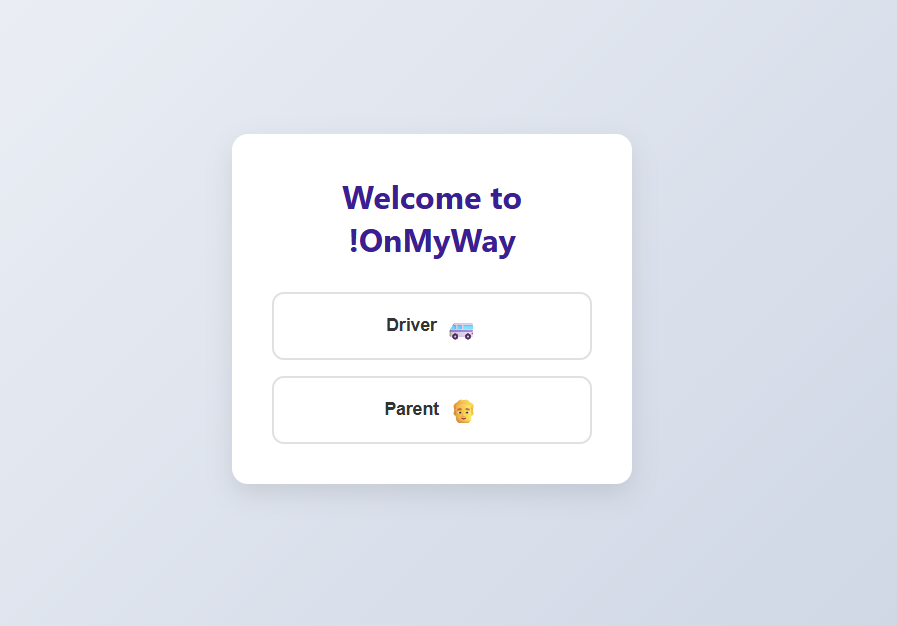
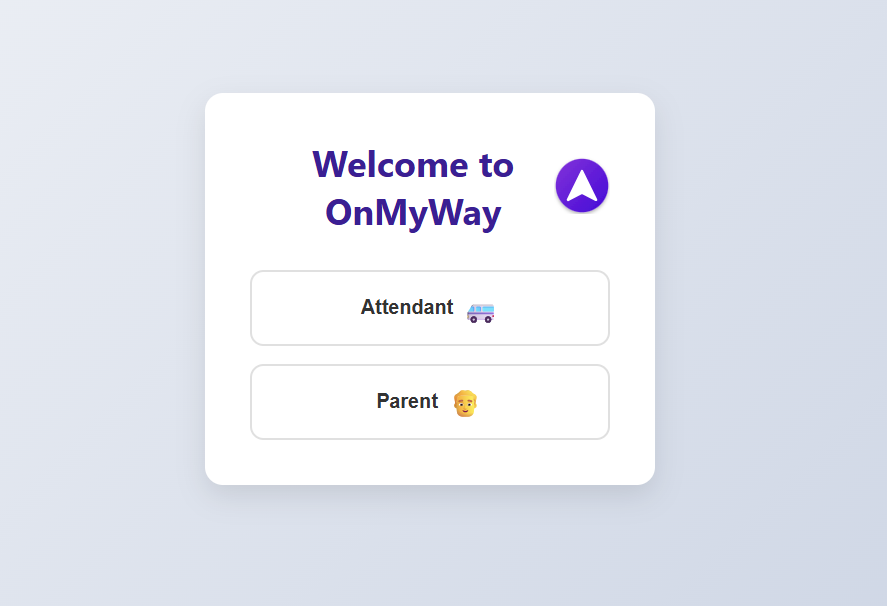
feat: stable map routing with OSRM using useRef, useMemo and instructions panel

Changed region(s): [[0.2131, 0.1485, 0.761, 0.802], [0.3044, 0.6238, 0.6697, 0.7426], [0.3044, 0.5644, 0.6697, 0.5941]]

diff --git a/Frontend/src/components/Map.jsx b/Frontend/src/components/Map.jsx
@@ -1,8 +1,62 @@
-import { useState, useEffect } from 'react'
-import { MapContainer, TileLayer, Marker, Popup } from 'react-leaflet'
+import { useState, useEffect, useRef, useMemo } from 'react'
+import { MapContainer, TileLayer, Marker, Popup, useMap } from 'react-leaflet'
+import 'leaflet-routing-machine'
 import L from 'leaflet'
 import 'leaflet/dist/leaflet.css'
 import './Map.css'
+
+
+function Routing({ points, onInstructions }) {
+    const map = useMap();
+    const routingRef = useRef(null);
+
+    useEffect(() => {
+        if (!map || points.length < 2) return;
+
+        if (routingRef.current) {
+            try {
+                map.removeControl(routingRef.current);
+            } catch (e) {
+                console.warn('Routing already removed');
+            }
+            routingRef.current = null;
+        }
+
+        const routingControl = L.Routing.control({
+            waypoints: points.map(p => L.latLng(p[0], p[1])),
+            router: L.Routing.osrmv1({
+                serviceUrl: 'https://router.project-osrm.org/route/v1'
+            }),
+            lineOptions: {
+                styles: [{ color: '#2563eb', weight: 5 }]
+            },
+            addWaypoints: false,
+            draggableWaypoints: false,
+            fitSelectedRoutes: false,
+            show: false,
+            createMarker: () => null
+        }).addTo(map);
+
+        routingControl.on('routesfound', (e) => {
+            const steps = e.routes[0]?.instructions || [];
+            onInstructions(steps);
+        });
+
+        routingRef.current = routingControl;
+
+        return () => {
+            if (routingRef.current) {
+                try {
+                    map.removeControl(routingRef.current);
+                } catch { }
+                routingRef.current = null;
+            }
+        };
+    }, [map, points]);
+
+    return null;
+}
+
 
 
 // Icons
@@ -42,6 +96,7 @@ export default function Map() {
     const [loading, setLoading] = useState(true)
     const [error, setError] = useState(null)
     const [checkedIds, setCheckedIds] = useState(new Set());
+    const [instructions, setInstructions] = useState([]);
 
 
     // Add User Form State
@@ -153,6 +208,21 @@ export default function Map() {
             return newSet;
         });
     };
+    // console.log('route raw:', route);
+
+
+    const routePoints = useMemo(() => {
+        if (route.length === 0) return [];
+
+        return [
+            position, // location of the bus
+            ...route
+                .filter(p => p.x && p.y)
+                .map(p => [p.x, p.y])
+        ];
+    }, [route]);
+
+    // console.log('routePoints:', routePoints);
     return (
         <div className="Map">
             <div className="PassengersList">
@@ -242,15 +312,27 @@ export default function Map() {
                         </Marker>
                     ) : null
                 ))}
+                {routePoints.length > 1 && (
+                    <Routing
+                        points={routePoints}
+                        onInstructions={setInstructions}
+                    />
+                )}
+
             </MapContainer>
             <div className="Route">
                 <h3>The route</h3>
+
                 {loading && <p>Loading...</p>}
                 {error && <p style={{ color: 'red' }}>Error: {error}</p>}
+
                 {!loading && !error && (
                     <ol className="route-steps">
                         {route.map((point, index) => (
-                            <li key={point.id || index} className={`route-step ${checkedIds.has(point.id) ? 'checked' : ''}`}>
+                            <li
+                                key={point.id || index}
+                                className={`route-step ${checkedIds.has(point.id) ? 'checked' : ''}`}
+                            >
                                 <span className="step-name">{point.name}</span>
                                 <input
                                     className="route-checkbox"
@@ -262,7 +344,27 @@ export default function Map() {
                         ))}
                     </ol>
                 )}
+
+                <div className="RouteInstructions">
+                    <h4>Route Instructions</h4>
+
+                    {instructions.length === 0 ? (
+                        <p>Loading route instructions...</p>
+                    ) : (
+                        <ol>
+                            {instructions.map((step, index) => (
+                                <li key={index}>
+                                    {step.text}
+                                    <span className="distance">
+                                        ({Math.round(step.distance)} מ׳)
+                                    </span>
+                                </li>
+                            ))}
+                        </ol>
+                    )}
+                </div>
             </div>
+
         </div>
     )
 }

diff --git a/Frontend/src/pages/ParentDashboard.jsx b/Frontend/src/pages/ParentDashboard.jsx
@@ -33,7 +33,7 @@ export default function ParentDashboard() {
 
         // Optimistic update
         const previousStatus = childData.status_ride;
-        setChildData(prev => ({ ...prev, status_ride: newStatus ? 1 : 0 })); // Adjust for DB boolean 1/0
+        setChildData(prev => ({ ...prev, status_ride: newStatus })); // Adjust for DB boolean 1/0
 
         try {
             const response = await fetch(`http://localhost:3000/users/${childId}/status`, {
@@ -57,7 +57,7 @@ export default function ParentDashboard() {
         return (
             <div className="parent-dashboard-container">
                 <div className="parent-card">
-                    <h2 className="dashboard-title">Enter child ID 👋</h2>
+                    <h2 className="dashboard-title">👋Enter child ID</h2>
 
                     <div className="input-group">
                         <input
@@ -86,19 +86,19 @@ export default function ParentDashboard() {
     return (
         <div className="parent-dashboard-container">
             <div className="parent-card">
-                <h2 className="dashboard-title">Hello, Parent 👋</h2>
+                <h2 className="dashboard-title">👋Hello, Parent </h2>
 
                 <div className="child-info">
                     <div className="info-row">
-                        <span className="info-label">Child Name:</span>
+                        <span className="info-label">Child Name: </span>
                         <span className="info-value">{childData.f_name} {childData.l_name}</span>
                     </div>
                     <div className="info-row">
-                        <span className="info-label">Child ID:</span>
+                        <span className="info-label">Child ID: </span>
                         <span className="info-value">{childData.id}</span>
                     </div>
                     <div className="info-row">
-                        <span className="info-label">Ride Status:</span>
+                        <span className="info-label">Ride Status: </span>
                         <span className="info-value" style={{ color: childData.status_ride ? 'green' : 'red' }}>
                             {childData.status_ride ? 'Going' : 'Not Going'}
                         </span>

diff --git a/Frontend/src/components/Map.css b/Frontend/src/components/Map.css
@@ -284,3 +284,83 @@
     opacity: 0.7;
     background-color: #f9f9f9;
 }
+
+.leaflet-routing-container {
+    display: none !important;
+}
+
+.RouteInstructions {
+    margin: 16px 1rem 1rem 1rem;
+    padding: 16px;
+    background: linear-gradient(135deg, #f8f9ff 0%, #fff5f8 100%);
+    border-radius: 12px;
+    max-height: 470px;
+    overflow-y: auto;
+    font-size: 14px;
+    box-shadow: 0 4px 12px rgba(62, 29, 153, 0.08);
+    border: 1px solid rgba(62, 29, 153, 0.1);
+}
+
+.RouteInstructions h4 {
+    margin-top: 0;
+    margin-bottom: 12px;
+    color: #3e1d99;
+    font-size: 1rem;
+    font-weight: 600;
+    text-align: center;
+    border-bottom: 2px solid rgba(62, 29, 153, 0.15);
+    padding-bottom: 8px;
+}
+
+.RouteInstructions ol {
+    padding-right: 1rem;
+    margin: 0;
+}
+
+.RouteInstructions li {
+    margin-bottom: 10px;
+    padding: 8px 10px;
+    background: white;
+    border-radius: 6px;
+    border-right: 3px solid #e0e0e0;
+    transition: all 0.2s ease;
+    line-height: 1.5;
+    color: #333;
+}
+
+.RouteInstructions li:hover {
+    transform: translateX(-3px);
+    border-right-color: #3e1d99;
+    box-shadow: 0 2px 6px rgba(62, 29, 153, 0.15);
+    background: #fefefe;
+}
+
+.RouteInstructions .distance {
+    color: #888;
+    font-size: 11px;
+    margin-right: 6px;
+    font-weight: 600;
+    background: #f5f5f5;
+    padding: 2px 6px;
+    border-radius: 4px;
+    display: inline-block;
+}
+
+/* Custom Scrollbar */
+.RouteInstructions::-webkit-scrollbar {
+    width: 6px;
+}
+
+.RouteInstructions::-webkit-scrollbar-track {
+    background: rgba(62, 29, 153, 0.05);
+    border-radius: 10px;
+}
+
+.RouteInstructions::-webkit-scrollbar-thumb {
+    background: linear-gradient(135deg, #3e1d99 0%, #6a4cdb 100%);
+    border-radius: 10px;
+}
+
+.RouteInstructions::-webkit-scrollbar-thumb:hover {
+    background: linear-gradient(135deg, #2e0d89 0%, #5a3ccb 100%);
+}

diff --git a/Frontend/src/pages/Login.jsx b/Frontend/src/pages/Login.jsx
@@ -7,7 +7,10 @@ export default function Login({ onLogin }) {
     return (
         <div className="login-container">
             <div className="login-card">
-                <h2 className="login-title">Welcome to OnMyWay </h2>
+                <h2 className="login-title">
+                    <img src="/omw-icon.svg" alt="OnMyWay Logo" className="logo-icon" />
+                    Welcome to OnMyWay
+                </h2>
 
                 <div className="role-selection">
                     <button className="role-btn" onClick={() => setRole('attendant')}>

diff --git a/Frontend/src/pages/Login.css b/Frontend/src/pages/Login.css
@@ -30,6 +30,16 @@
     font-size: 2rem;
     margin-bottom: 2rem;
     font-weight: 700;
+    display: flex;
+    align-items: center;
+    justify-content: center;
+    gap: 0;
+}
+
+.logo-icon {
+    width: 50px;
+    height: 50px;
+    margin-left: -20px;
 }
 
 .role-selection {

diff --git a/Frontend/src/pages/ParentDashboard.css b/Frontend/src/pages/ParentDashboard.css
@@ -86,7 +86,7 @@
 
 /* Info Section */
 .child-info {
-    text-align: right;
+    text-align: left;
     margin-bottom: 2rem;
     background: #f8f9fa;
     padding: 1rem;

diff --git a/README.md b/README.md
@@ -63,7 +63,7 @@ Developed collaboratively by:
 
 
 ### Ride Escort Dashboard - main view
-![Ride-Escort-Dashboard](./images/escort-dashboard.png)
+![Ride-ant-Dashboard](./images/attendant-dashboard.png)
 
 
 
